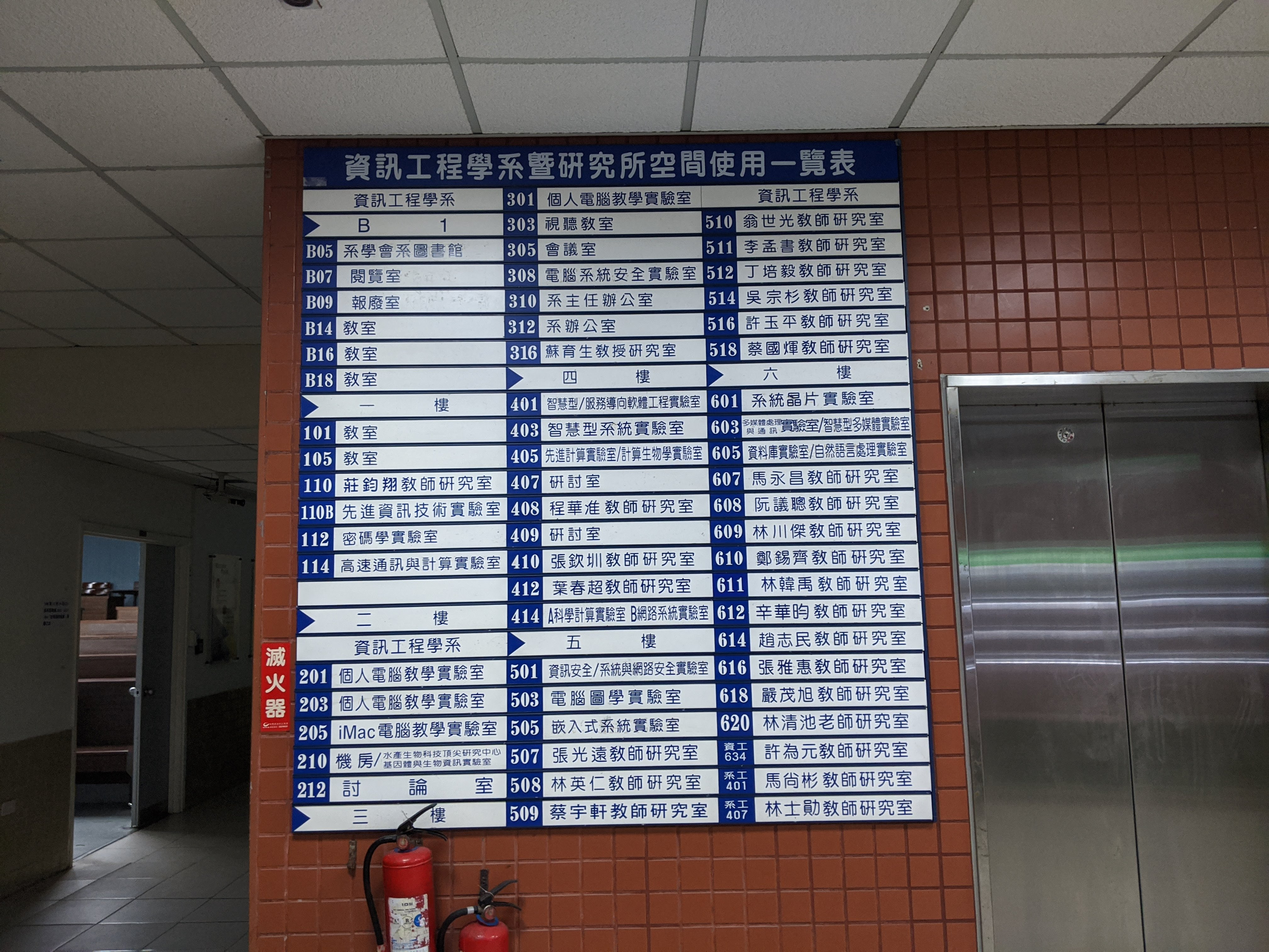
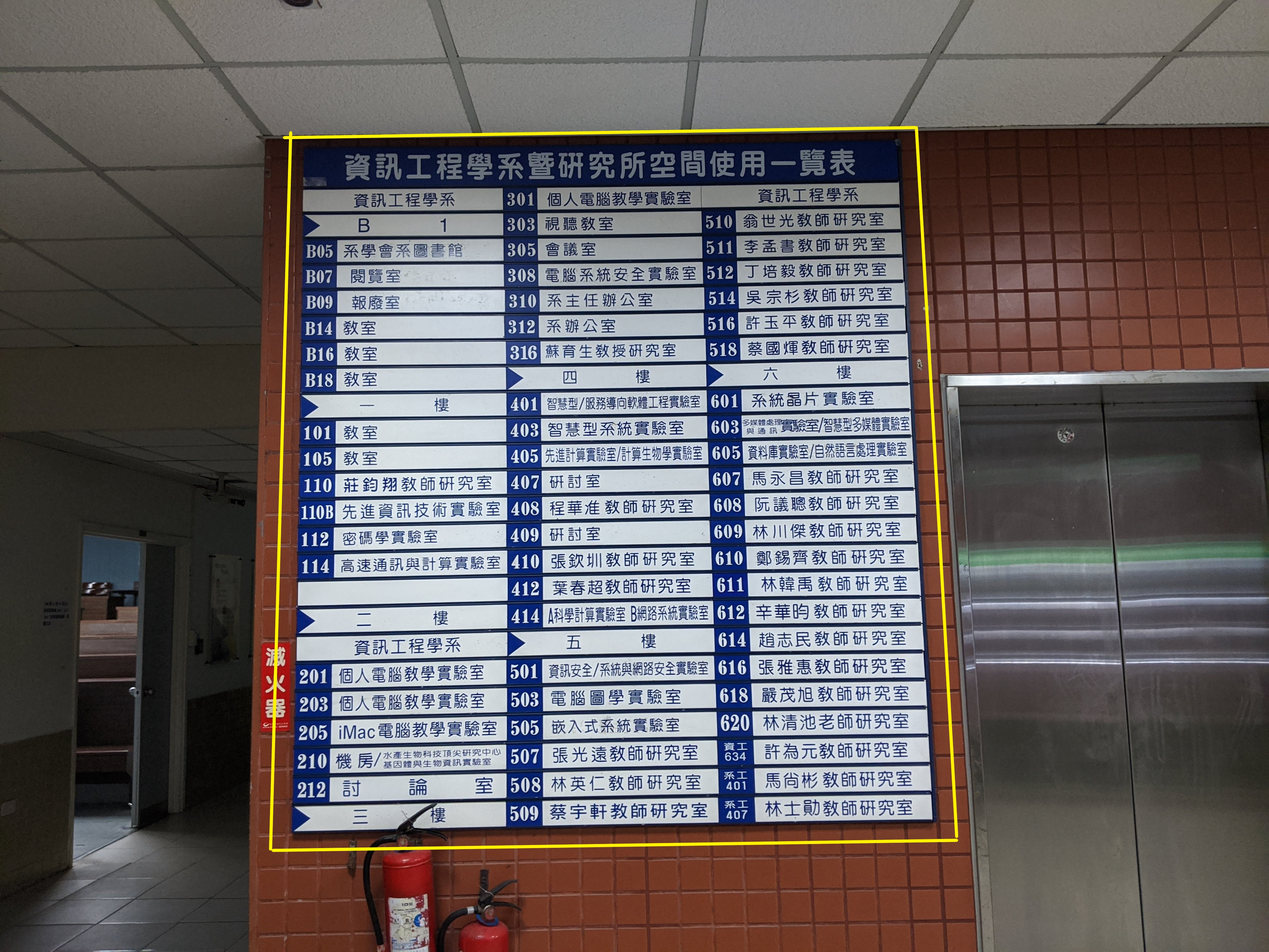
一樓修改_1 && 修圖

diff --git a/first.js b/first.js
@@ -1,22 +1,39 @@
 var hint_times = 0;
+var correct = 0;
+var hint = 0;
+var enter = 0;
+var tools = 0;
+var inmachine = 0;
+
 function clickpic(e) {
     var x = e.offsetX;
     var y = e.offsetY;
-    console.log(x, y);
-    if (e.target.getAttribute("id") == "firstfloor") {
+    if ((e.target.getAttribute("id") == "firstfloor")) {
         if ((x > 450 && x < 615) && (y > 225 && y < 415))  {
-            e.target.setAttribute("id", "coin");
-            e.target.setAttribute("class", "coin");
-            $("#topdiv").text("試著回到一樓空間尋找線索");
-            if(e.target.getAttribute("id")=="coin"){
-                set_button(e);
+            if(tools<2){
+                $("#topdiv").text("請先找到線索再來解題");
             }
-            ////window.location.href='machine.html'
+            else{
+                inmachine = 1;
+                if(hint==0){
+                    e.target.setAttribute("id", "coin");
+                    e.target.setAttribute("class", "coin");
+                }
+                else{                
+                    e.target.setAttribute("id", "coin_1");
+                    e.target.setAttribute("class", "coin_1");
+                }
+                $("#topdiv").text("要先解完題才能離開喔");
+                if(e.target.getAttribute("id")=="coin"){
+                    set_button(e);
+                }
+            }
         }
         else if ((x > 0 && x <51) && (y > 15 && y < 370))  {
             document.getElementById("onmachine").innerHTML = "";
             e.target.setAttribute("class", "list");
             e.target.setAttribute("id", "list");
+            tools++;
             $("#topdiv").html("恭喜你找到提示線索<br>再次點擊可將線索收入背包並回到大廳");
             ////window.location.href='machine.html'
         }
@@ -31,6 +48,7 @@ function clickpic(e) {
             document.getElementById("onmachine").innerHTML = "";
             e.target.setAttribute("class", "information");
             e.target.setAttribute("id", "information");
+            tools++;
             $("#topdiv").html("恭喜你找到提示線索<br>再次點擊可將線索收入背包並回到大廳");
             
         }
@@ -40,10 +58,15 @@ function clickpic(e) {
             e.target.setAttribute("id", "lightcontrol");
         }
         else  if ((x > 720 && x < 800) && (y > 180 && y < 490)) {
-            document.getElementById("onmachine").innerHTML = "";
-            e.target.setAttribute("class", "stair1");
-            e.target.setAttribute("id", "stair1");
-            $("#topdiv").text("再次點擊前往二樓");
+            if(correct==1){                
+                document.getElementById("onmachine").innerHTML = "";
+                e.target.setAttribute("class", "stair1");
+                e.target.setAttribute("id", "stair1");
+                $("#topdiv").text("再次點擊前往二樓");
+            }
+            else{
+                $("#topdiv").html("請先解開謎題<br>試著點擊周圍吧");
+            }
         }
     }
     else if (e.target.getAttribute("id") == "stair1") {
@@ -55,36 +78,66 @@ function clickpic(e) {
     else if (e.target.getAttribute("id") == "stair2"){
         window.location.href='second.html';
     }
+    else if((hint_times>=1) || (enter==1)){
+        if ((e.target.getAttribute("id") == "coin") || (e.target.getAttribute("id") == "coin_1")){
+            console.log("72");
+            document.getElementById("onmachine").innerHTML="";
+        }
+    }
     else {
         if (e.target.getAttribute("id") == "list")
-            tobackpack("./first/list.jpg");
+            tobackpack("./backpack/list.jpg");
         if (e.target.getAttribute("id") == "information")
-            tobackpack("./first/paper.jpg");
+            tobackpack("./backpack/paper.jpg");
         document.getElementById("onmachine").innerHTML = "";
-        e.target.setAttribute("class", "firstfloor");
-        e.target.setAttribute("id", "firstfloor");
-        $("#topdiv").text("試著點擊周遭環境");
+        if(inmachine==0){
+            e.target.setAttribute("class", "firstfloor");
+            e.target.setAttribute("id", "firstfloor");
+            $("#topdiv").text("請試著點擊周遭環境");
+        }
     }
 }
 
 function set_button(e){
-    var inner = "<div class = 'button_where'><input id = 'where' type = 'button' value = '我不在這裡'></div>";
-    inner += "<div class = 'button_hint'><input id = 'hint' type = 'button' value = '我需要提示'></div>";
-    inner += "<div class = 'button_text'><input id = 'ans_b' type = 'button' value = '確認輸入'></div>";
-    inner += "<div class = 'text_answer'><input id = 'ans' type = 'text' placeholder = '限輸入英文'></div>";
-    document.getElementById("onmachine").innerHTML = inner;
-    document.getElementById("where").addEventListener("click", place_hint, false);
+    var inner = "";
+    var tmp;
+    console.log("83");
+    if(hint==0){
+        tmp = document.getElementById("coin");
+    }
+    else{
+        tmp = document.getElementById("coin_1");
+    }
+    inner += "<input id = 'where' type = 'button' value = '我不在這裡' class = 'button_where'>";
+    inner += "<input id = 'hint' type = 'button' value = '我需要提示' class = 'button_hint'>";
+    inner += "<input id = 'ans_b' type = 'button' value = '確認輸入' class = 'button_text'>";
+    inner += "<input id = 'ans' type = 'text' placeholder = '限輸入英文' class = 'text_answer'>";
+    console.log(tmp);
+    tmp.innerHTML = inner;
+    if(hint==0){        
+        document.getElementById("where").addEventListener("click", place_hint, false);
+    }
     document.getElementById("hint").addEventListener("click", hints, false);
     document.getElementById("ans_b").addEventListener("click", check_ans, false);
 }
 
 function place_hint(e){
-    console.log("in place_hints");
+    console.log("90");
+    hint++;
     var tmp = document.getElementById("coin");
     tmp.setAttribute("class", "coin_1");
+    tmp.setAttribute("id", "coin_1");
 }
 
 function hints(){
+    var tmp;
+    //if(hint==0){
+        //tmp = document.getElementById("coin");
+    //}
+    //else{
+        //tmp = document.getElementById("coin_1");
+    //}
+    tmp = document.getElementById("onmachine");
     console.log("in hints");
     hint_times++;
     var inner = "<div class = 'hint_list'>";
@@ -99,8 +152,11 @@ function hints(){
         inner += "<div class = 'button_giveup'><input id = 'button_giveup' type = 'button' value = '我放棄了QQ'></div>"
     }
     inner += "</div>";
-    document.getElementById("onmachine").innerHTML = inner;
-    document.getElementById("button_giveup").addEventListener("click", giveup, false);
+    tmp.innerHTML = inner;
+    console.log("hint_times is "+hint_times);
+    if(hint_times >= 3){
+        document.getElementById("button_giveup").addEventListener("click", giveup, false);
+    }
 }
 
 function giveup(){
@@ -109,11 +165,13 @@ function giveup(){
 }
 
 function check_ans(){
+    enter = 1;
     var result = document.getElementById("ans").value;
     console.log("result is "+result);
     var inner = "";
     if(result === "iMac"){
         inner = "<div class = 'result_list_t'>正確</div>"
+        correct = 1;
     }
     else{
         inner = "<div class = 'result_list_f'>錯誤</div>"

diff --git a/first.css b/first.css
@@ -36,35 +36,41 @@
     margin-top: 50px;
  }
  .button_where{
-     bottom: -51%;
-     right: -55%;
-     text-align: center;
+   position: relative;
+   bottom: -55%;
+   right: -75%;
+   text-align: center;
  }
  .button_hint{
-    bottom: -51%;
-    right: -55%;
-    text-align: center;
+   position: relative;
+   bottom: -50%;
+   right: -64%;
+   text-align: center;
  }
  .button_text{
-    bottom: -51%;
-    right: -55%;
-    text-align: center;
+   position: relative;
+   bottom: -68%;
+   right: -55%;
+   text-align: center;
  }
  .button_giveup{
-    bottom: -51%;
-    right: -55%;
-    text-align: center;
+   position: relative;
+   bottom: -35%;
+   right: 0%;
+   text-align: center;
  }
  .text_answer{
-    bottom: -51%;
-    right: -55%;
+   position: relative;
+   bottom: -61%;
+   right: -40%;
  }
  .hint_list{
     background-color: lemonchiffon;
-    width: 55%;
+    float: left;
+    margin-left:525px;
+    margin-top: -550px;
+    width: 750px;
     height: 250px;
-    bottom: 75%;
-    right: 30%;
     font-family: Calibri;
     font-size: 25px;
     text-align: left;
@@ -72,10 +78,11 @@
  }
  .hint_list_1{
     background-color: lemonchiffon;
-    width: 55%;
-    height: 250px; 
-    bottom: 75%;
-    right: 30%;
+    float: left;
+    margin-left:525px;
+    margin-top: -550px;
+    width: 750px;
+    height: 250px;
     font-family: Calibri;
     font-size: 65px;
     text-align: center;
@@ -83,23 +90,25 @@
  }
  .result_list_f{
     background-color: #df5959;
-    width: 55%;
-    height: 100px;
-    bottom: 70%;
-    right: 30%;
+    float: left;
+    margin-left:525px;
+    margin-top: -550px;
+    width: 750px;
+    height: 250px;
     font-family: Calibri;
-    font-size: 62px;
+    font-size: 120px;
     text-align: center;
     font-weight: bold;
  }
  .result_list_t{
     background-color: #59df81;
-    width: 55%;
-    height: 100px;
-    bottom: 70%;
-    right: 30%;
+    float: left;
+    margin-left:525px;
+    margin-top: -550px;
+    width: 750px;
+    height: 250px;
     font-family: Calibri;
-    font-size: 62px;
+    font-size: 120px;
     text-align: center;
     font-weight: bold;
  }

diff --git a/mac.js b/mac.js
@@ -37,6 +37,7 @@ function set_text(e){
     inner += "<input id = 'ans_b' type = 'button' value = '確認輸入' class = 'button_text'>";
     console.log(inner);
     document.getElementById("code_f").innerHTML = inner;
+    document.getElementById("ans_b").addEventListener("click", check_ans, false);
 }
 
 function check_ans(){
@@ -45,11 +46,11 @@ function check_ans(){
     var inner = "<div class = 'text_answer'><input id = 'ans' type = 'text' placeholder = '請輸入正確的code'></div>";
     inner += "<div class = 'button_text'><input id = 'ans_b' type = 'button' value = '確認輸入'></div>";
     if((result === "arr[j]=arr[i];") || (result === "arr[j] = arr[i];")){
-        inner += ""
+        //inner += ""
         window.alert("輸入正確");
     }
     else{
-        inner += "<div class = 'result_list_f'>更改錯誤</div>"
+        //inner += "<div class = 'result_list_f'>更改錯誤</div>"
     }
-    document.getElementById("onmachine").innerHTML = inner;
+    //document.getElementById("onmachine").innerHTML = inner;
 }
